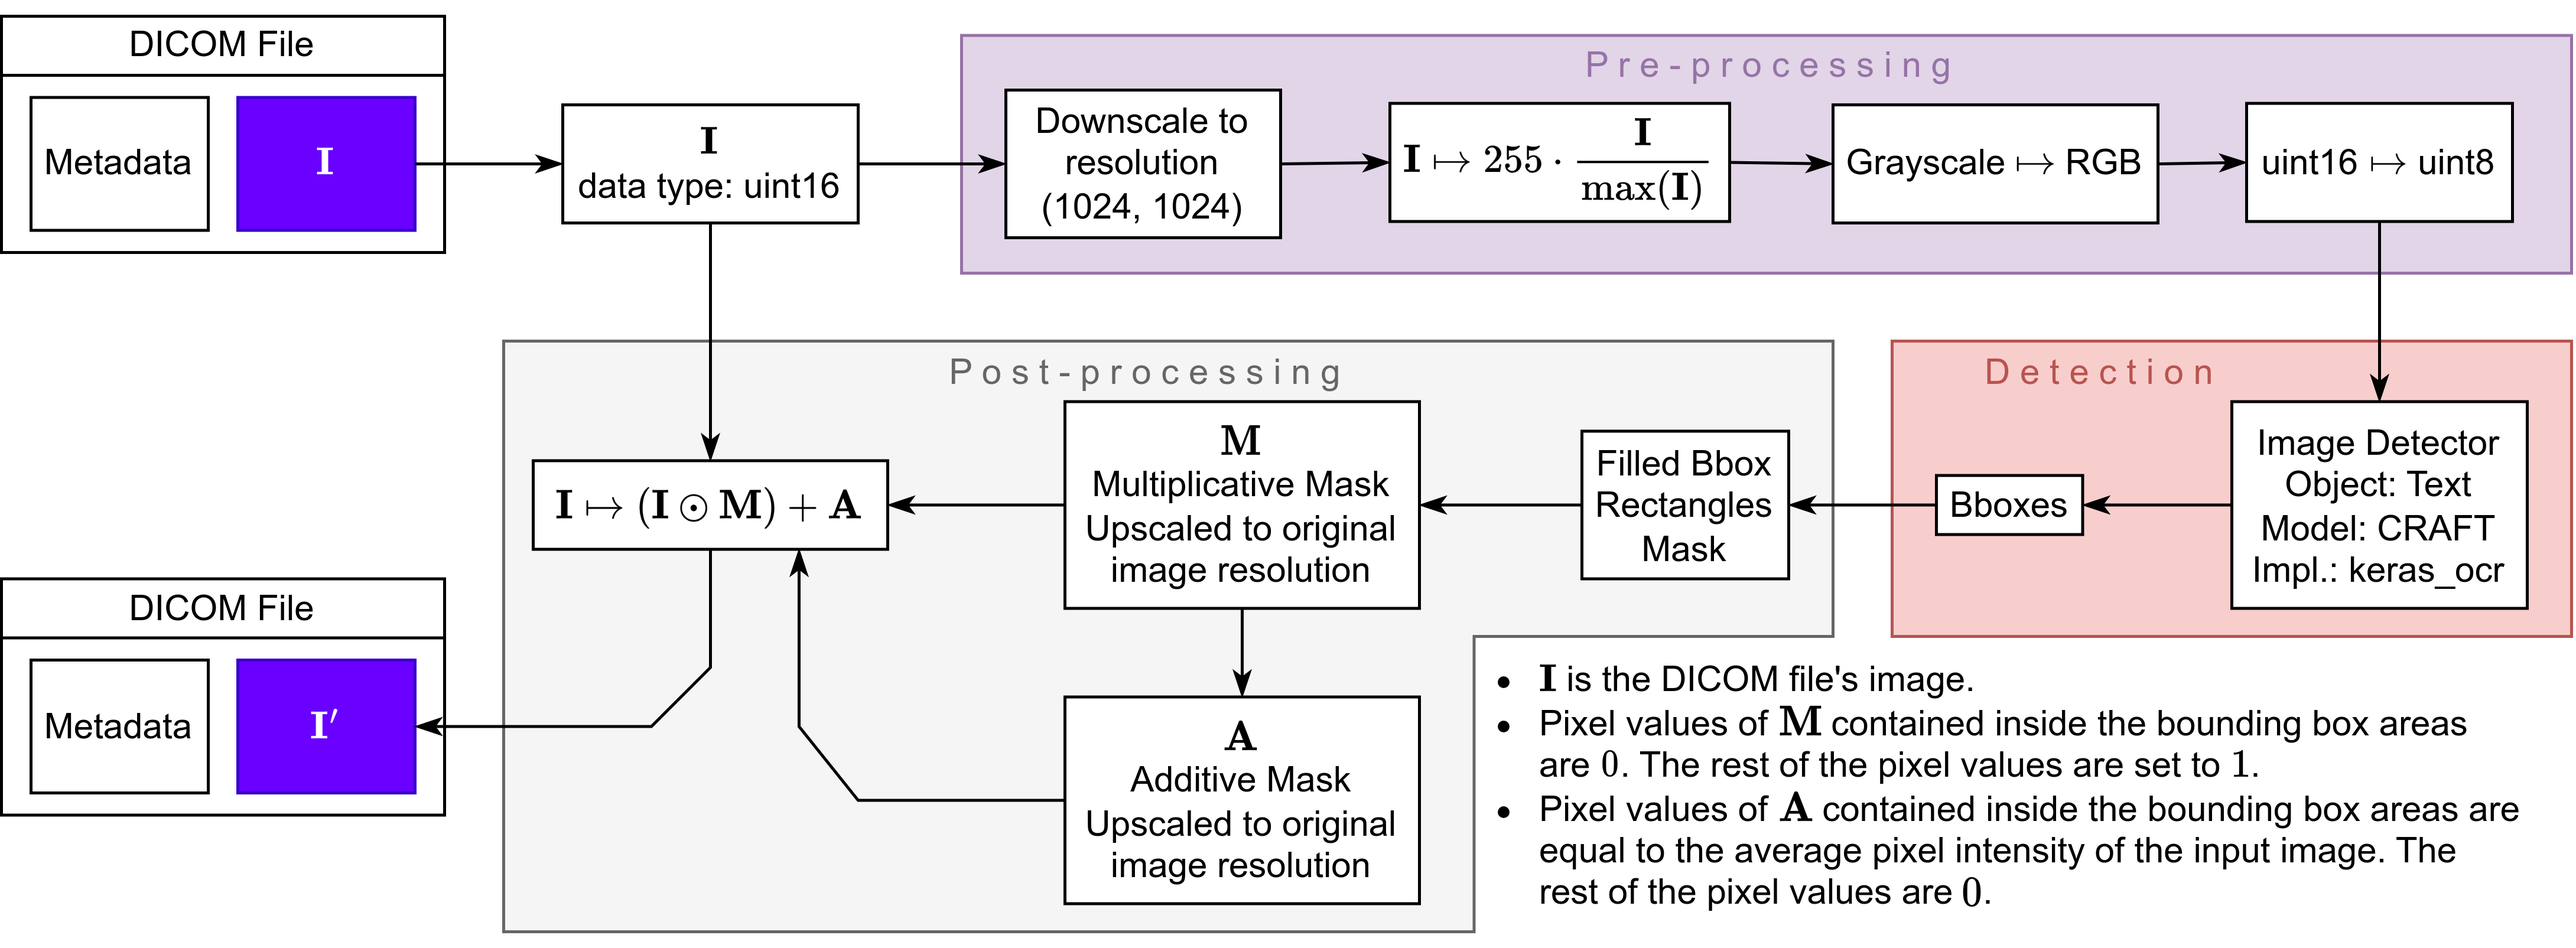
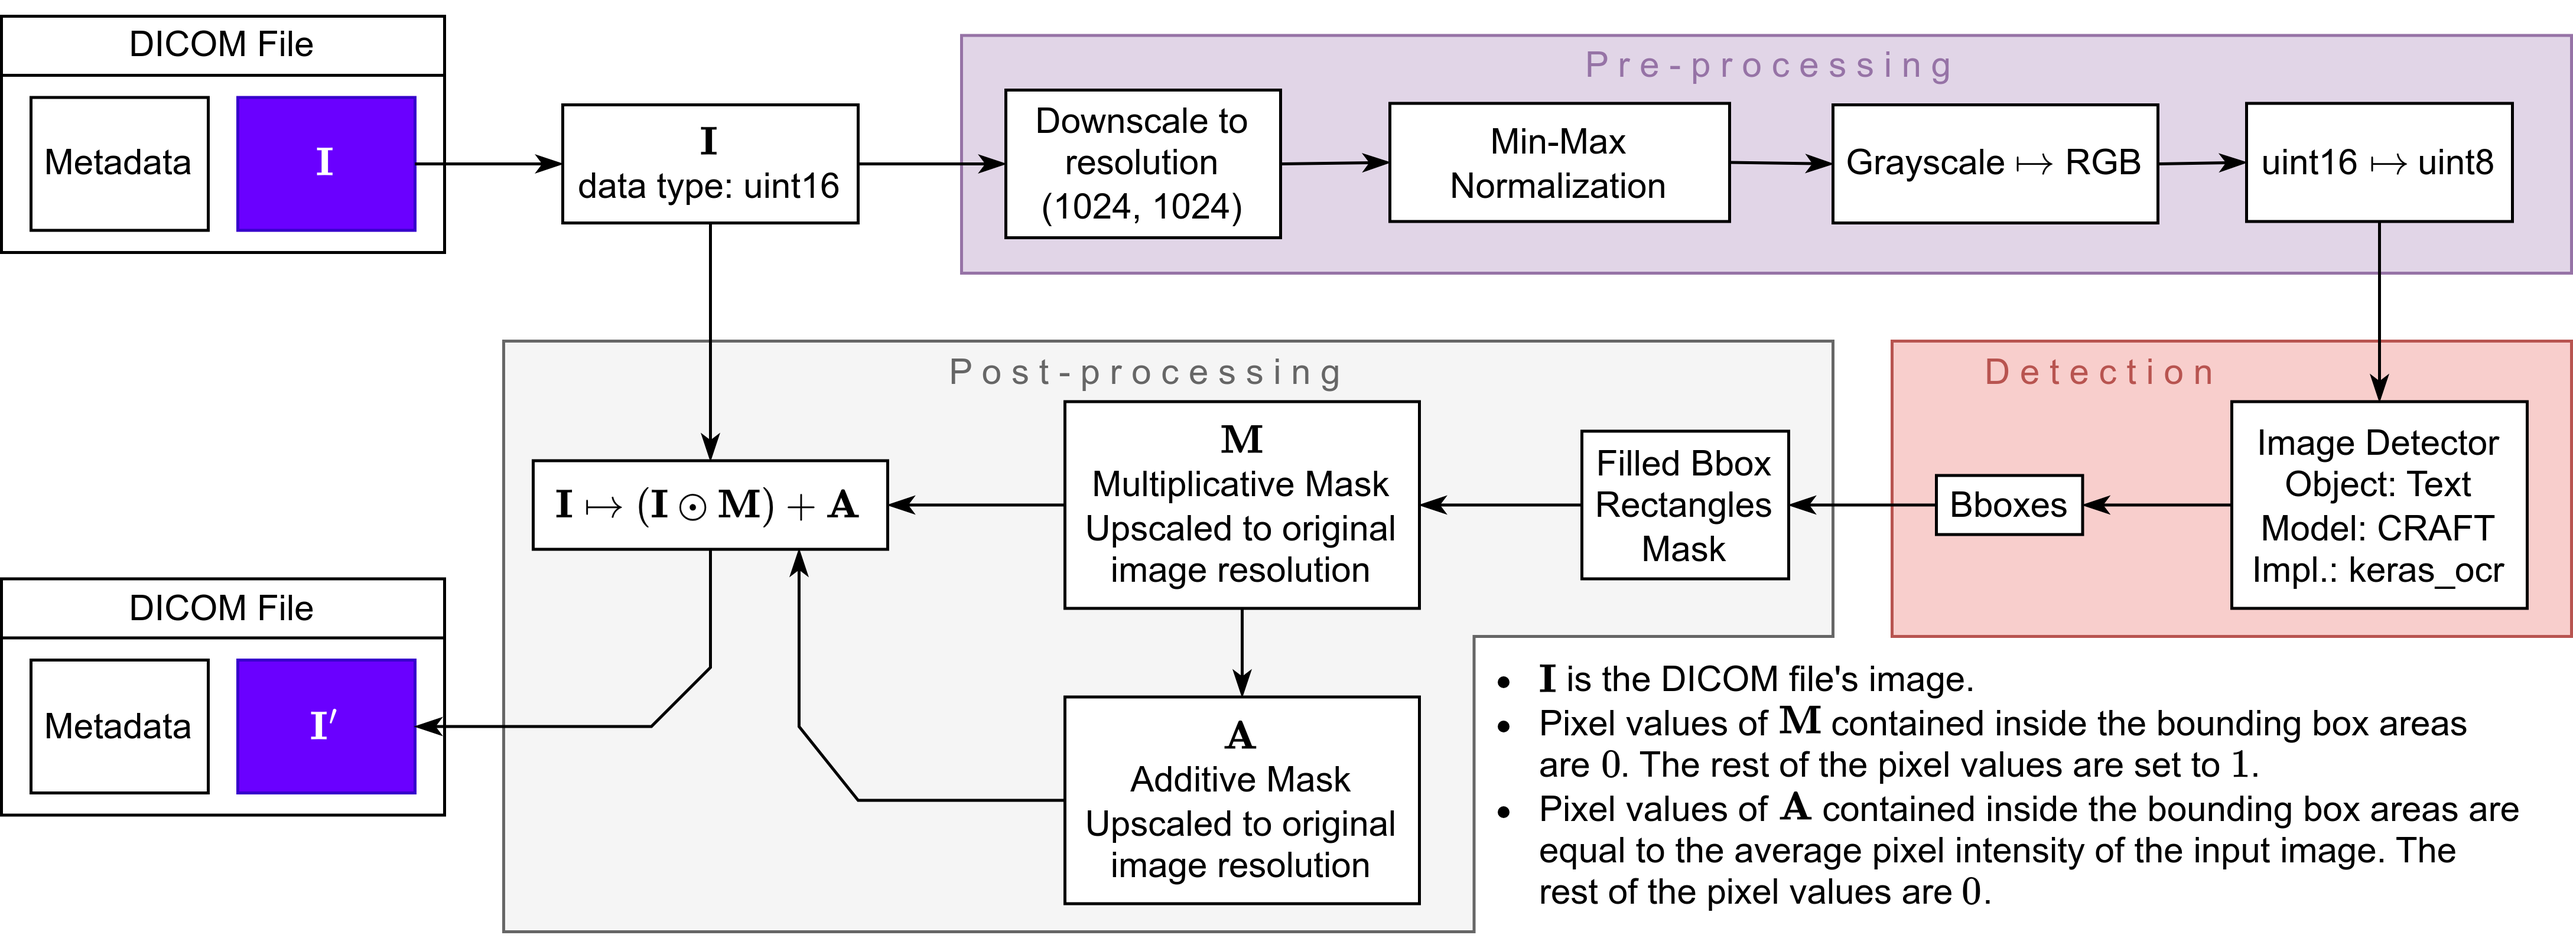
Preprocessing Correction

diff --git a/src/dcm_img_text_remover.py b/src/dcm_img_text_remover.py
@@ -53,7 +53,7 @@ def basic_preprocessing(img, downscale, toint8 = True, multichannel = True) -> n
         print('Detection input downscaled to (%d, %d)'%(new_shape[0], new_shape[1]))
 
     if toint8:
-        img = (255.0 * (img / np.max(img))).astype(np.uint8)
+        img = (255.0 * ((img - np.min(img)) / (np.max(img) - np.min(img)))).astype(np.uint8)
 
     if (multichannel) and (len(img.shape) == 2):
         img = np.stack(3*[img], axis = -1)
